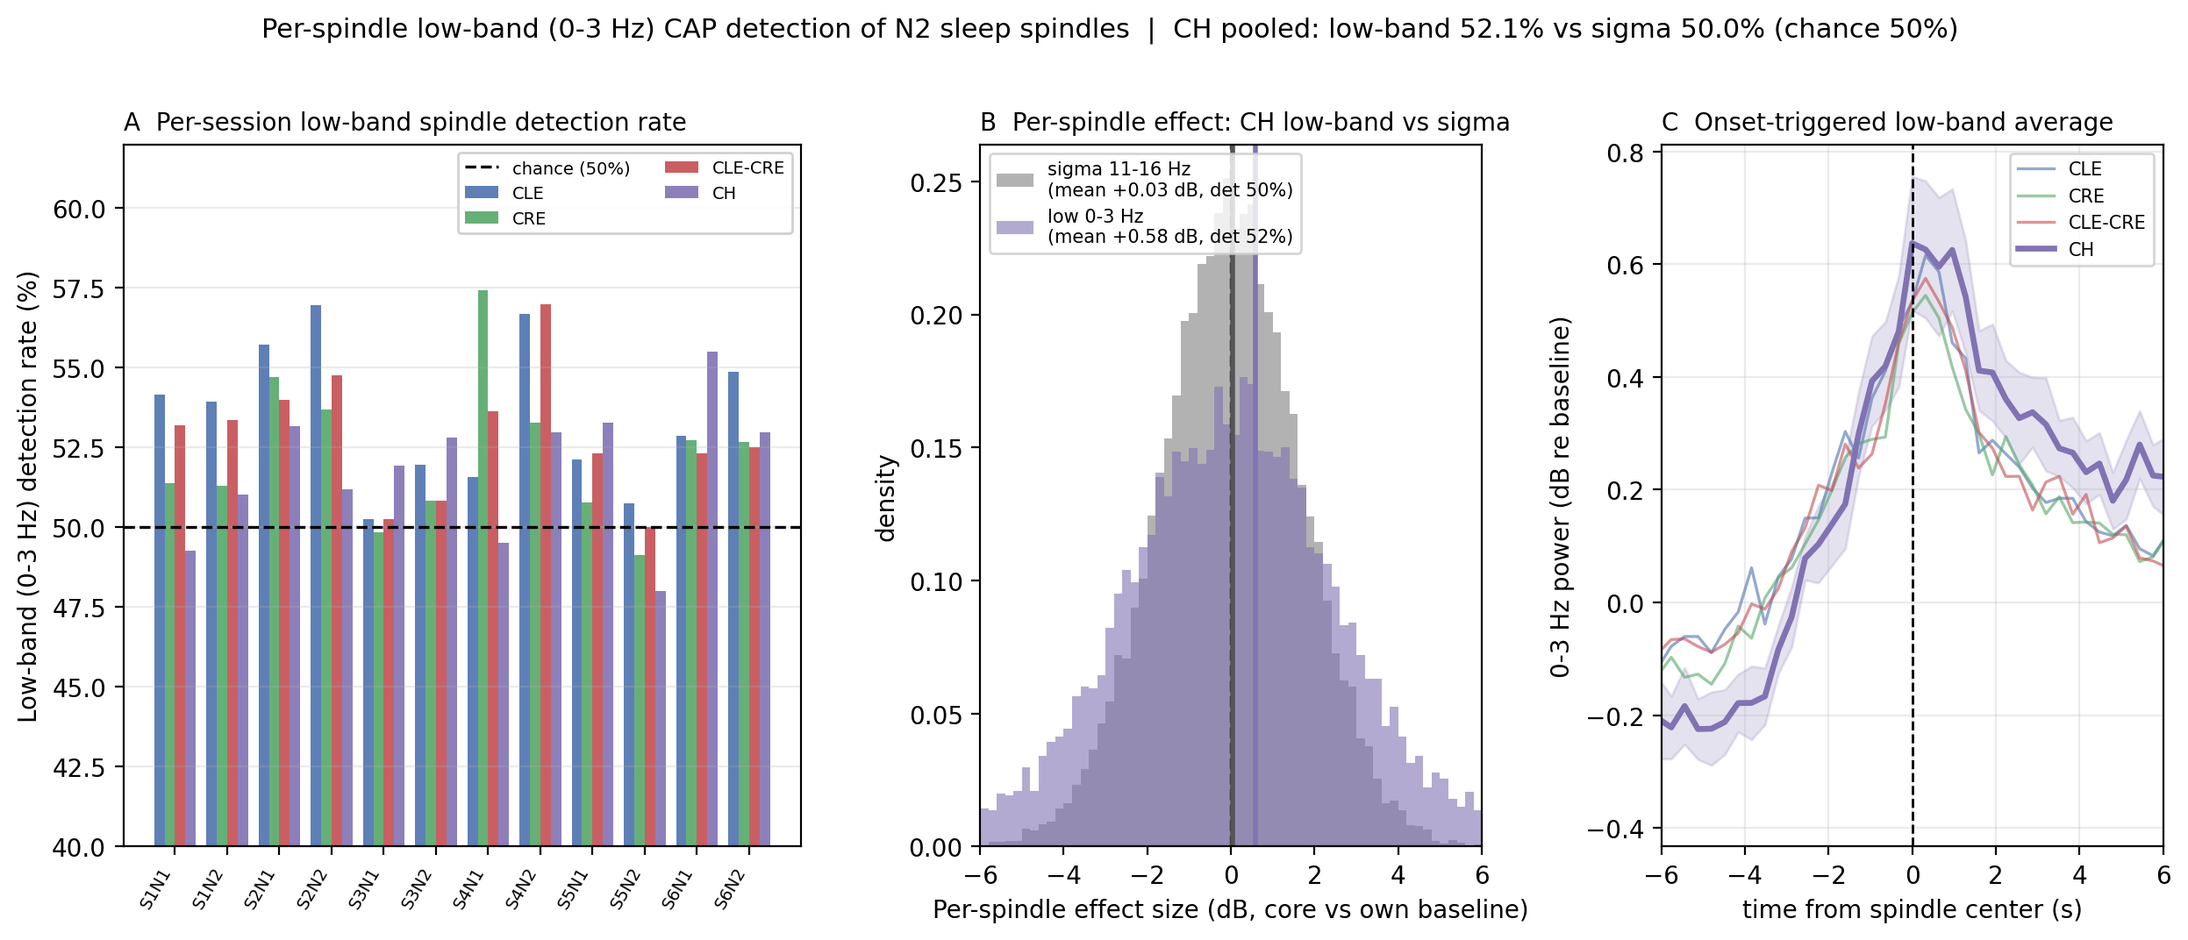
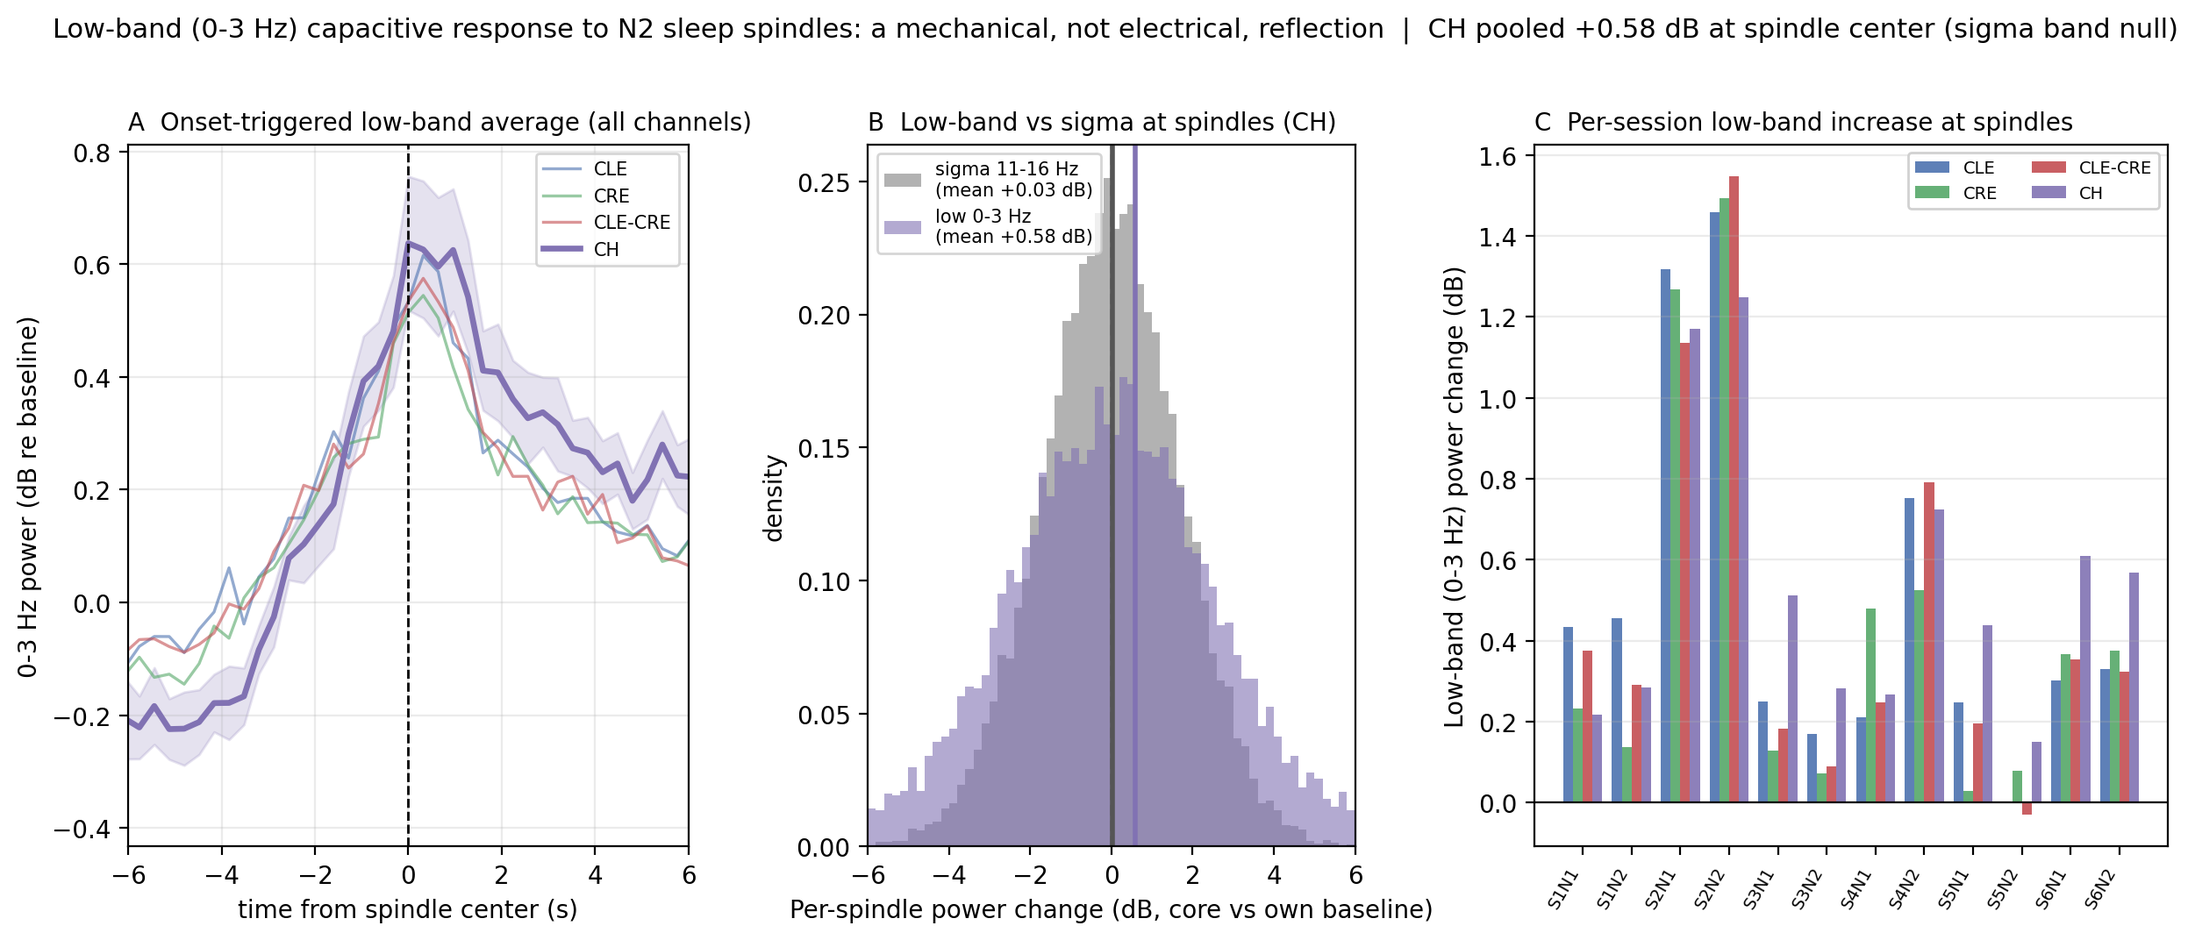
Log channel-evolution figure iteration (super-slow drift + CSF-flow channel)

diff --git a/analysis/spindles/spindle_lowband_detection.py b/analysis/spindles/spindle_lowband_detection.py
@@ -293,46 +293,10 @@ def make_figure(df, sessions, save):
     colors = {'CLE': '#4C72B0', 'CRE': '#55A868', 'CLE-CRE': '#C44E52', 'CH': '#8172B3'}
 
     fig = plt.figure(figsize=(15, 5.2), dpi=200)
-    gs = fig.add_gridspec(1, 3, width_ratios=[1.35, 1.0, 1.0], wspace=0.32)
+    gs = fig.add_gridspec(1, 3, width_ratios=[1.15, 1.0, 1.3], wspace=0.32)
 
-    # --- Panel A: per-session low-band detection rate bars, per channel ---
+    # --- Panel A: onset-triggered low-band average, all CAP channels (CH bold) ---
     axA = fig.add_subplot(gs[0, 0])
-    labels = sess_df['session'].tolist()
-    x = np.arange(len(labels))
-    w = 0.2
-    for i, ch in enumerate(CAP_CHANNELS):
-        vals = sess_df[f'{ch}_low_detrate'].values * 100
-        axA.bar(x + (i - 1.5) * w, vals, w, label=ch, color=colors[ch],
-                edgecolor='none', alpha=0.9)
-    axA.axhline(50, color='k', ls='--', lw=1.2, label='chance (50%)')
-    axA.set_xticks(x)
-    axA.set_xticklabels(labels, rotation=60, ha='right', fontsize=7)
-    axA.set_ylabel('Low-band (0-3 Hz) detection rate (%)')
-    axA.set_title('A  Per-session low-band spindle detection rate', fontsize=10, loc='left')
-    axA.set_ylim(40, max(62, sess_df[[f'{c}_low_detrate' for c in CAP_CHANNELS]].max().max() * 100 + 3))
-    axA.legend(fontsize=7, ncol=2, loc='upper right', framealpha=0.9)
-    axA.grid(axis='y', alpha=0.25)
-
-    # --- Panel B: per-spindle effect-size distributions, sigma vs low-band (CH) ---
-    axB = fig.add_subplot(gs[0, 1])
-    db_low = save['db_CH_low_03']
-    db_sig = save['db_CH_sigma']
-    bins = np.linspace(-6, 6, 61)
-    axB.hist(db_sig, bins=bins, density=True, color='#999999', alpha=0.75,
-             label=f'sigma 11-16 Hz\n(mean {np.mean(db_sig):+.2f} dB, det {np.mean(db_sig>0)*100:.0f}%)')
-    axB.hist(db_low, bins=bins, density=True, color=colors['CH'], alpha=0.6,
-             label=f'low 0-3 Hz\n(mean {np.mean(db_low):+.2f} dB, det {np.mean(db_low>0)*100:.0f}%)')
-    axB.axvline(0, color='k', ls='--', lw=1.2)
-    axB.axvline(np.mean(db_low), color=colors['CH'], lw=2)
-    axB.axvline(np.mean(db_sig), color='#555555', lw=2)
-    axB.set_xlabel('Per-spindle effect size (dB, core vs own baseline)')
-    axB.set_ylabel('density')
-    axB.set_title('B  Per-spindle effect: CH low-band vs sigma', fontsize=10, loc='left')
-    axB.legend(fontsize=7.5, loc='upper left')
-    axB.set_xlim(-6, 6)
-
-    # --- Panel C: onset-triggered low-band average, all CAP channels (CH bold) ---
-    axC = fig.add_subplot(gs[0, 2])
     t = save['t_axis']
     for ch in CAP_CHANNELS:
         curves = save[f'trig_low_{ch}']              # (sessions, T)
@@ -340,22 +304,56 @@ def make_figure(df, sessions, save):
         se = curves.std(axis=0) / np.sqrt(curves.shape[0])
         lw = 2.4 if ch == 'CH' else 1.2
         alpha = 1.0 if ch == 'CH' else 0.6
-        axC.plot(t, m, color=colors[ch], lw=lw, alpha=alpha, label=ch)
+        axA.plot(t, m, color=colors[ch], lw=lw, alpha=alpha, label=ch)
         if ch == 'CH':
-            axC.fill_between(t, m - se, m + se, color=colors[ch], alpha=0.2)
-    axC.axvline(0, color='k', ls='--', lw=1.0)
-    axC.set_xlim(-6, 6)
-    axC.set_xlabel('time from spindle center (s)')
-    axC.set_ylabel('0-3 Hz power (dB re baseline)')
-    axC.set_title('C  Onset-triggered low-band average', fontsize=10, loc='left')
-    axC.legend(fontsize=7.5, loc='upper right')
-    axC.grid(alpha=0.25)
+            axA.fill_between(t, m - se, m + se, color=colors[ch], alpha=0.2)
+    axA.axvline(0, color='k', ls='--', lw=1.0)
+    axA.set_xlim(-6, 6)
+    axA.set_xlabel('time from spindle center (s)')
+    axA.set_ylabel('0-3 Hz power (dB re baseline)')
+    axA.set_title('A  Onset-triggered low-band average (all channels)', fontsize=10, loc='left')
+    axA.legend(fontsize=7.5, loc='upper right')
+    axA.grid(alpha=0.25)
 
-    ch_low = pooled['CH_low_detrate'] * 100
-    ch_sig = pooled['CH_sigma_detrate'] * 100
+    # --- Panel B: per-spindle effect-size distributions, low-band vs sigma (CH) ---
+    axB = fig.add_subplot(gs[0, 1])
+    db_low = save['db_CH_low_03']
+    db_sig = save['db_CH_sigma']
+    bins = np.linspace(-6, 6, 61)
+    axB.hist(db_sig, bins=bins, density=True, color='#999999', alpha=0.75,
+             label=f'sigma 11-16 Hz\n(mean {np.mean(db_sig):+.2f} dB)')
+    axB.hist(db_low, bins=bins, density=True, color=colors['CH'], alpha=0.6,
+             label=f'low 0-3 Hz\n(mean {np.mean(db_low):+.2f} dB)')
+    axB.axvline(0, color='k', ls='--', lw=1.2)
+    axB.axvline(np.mean(db_low), color=colors['CH'], lw=2)
+    axB.axvline(np.mean(db_sig), color='#555555', lw=2)
+    axB.set_xlabel('Per-spindle power change (dB, core vs own baseline)')
+    axB.set_ylabel('density')
+    axB.set_title('B  Low-band vs sigma at spindles (CH)', fontsize=10, loc='left')
+    axB.legend(fontsize=7.5, loc='upper left')
+    axB.set_xlim(-6, 6)
+
+    # --- Panel C: per-session low-band power change per channel ---
+    axC = fig.add_subplot(gs[0, 2])
+    labels = sess_df['session'].tolist()
+    x = np.arange(len(labels))
+    w = 0.2
+    for i, ch in enumerate(CAP_CHANNELS):
+        vals = sess_df[f'{ch}_low_meandB'].values
+        axC.bar(x + (i - 1.5) * w, vals, w, label=ch, color=colors[ch],
+                edgecolor='none', alpha=0.9)
+    axC.axhline(0, color='k', ls='-', lw=0.8)
+    axC.set_xticks(x)
+    axC.set_xticklabels(labels, rotation=60, ha='right', fontsize=7)
+    axC.set_ylabel('Low-band (0-3 Hz) power change (dB)')
+    axC.set_title('C  Per-session low-band increase at spindles', fontsize=10, loc='left')
+    axC.legend(fontsize=7, ncol=2, loc='upper right', framealpha=0.9)
+    axC.grid(axis='y', alpha=0.25)
+
+    ch_low = pooled['CH_low_meandB']
     fig.suptitle(
-        f'Per-spindle low-band (0-3 Hz) CAP detection of N2 sleep spindles  |  '
-        f'CH pooled: low-band {ch_low:.1f}% vs sigma {ch_sig:.1f}% (chance 50%)',
+        f'Low-band (0-3 Hz) capacitive response to N2 sleep spindles: a mechanical, not electrical, reflection  |  '
+        f'CH pooled +{ch_low:.2f} dB at spindle center (sigma band null)',
         fontsize=11, y=1.02)
     fig_path = os.path.join(FIGDIR, 'fig_spindle_lowband_detection.png')
     fig.savefig(fig_path, bbox_inches='tight', dpi=200)
@@ -363,4 +361,13 @@ def make_figure(df, sessions, save):
 
 
 if __name__ == '__main__':
-    main()
+    import sys
+    if '--figure-only' in sys.argv:
+        # Rebuild the figure from saved CSV + NPZ without re-running the
+        # per-session analysis (used to re-render after a figure reframe).
+        import pandas as pd
+        df = pd.read_csv(os.path.join(OUT, 'spindle_lowband_detection.csv'))
+        save = np.load(os.path.join(OUT, 'spindle_lowband_detection.npz'))
+        make_figure(df, None, save)
+    else:
+        main()

diff --git a/notebooks/ANALYSIS_LOG.md b/notebooks/ANALYSIS_LOG.md
@@ -3,6 +3,8 @@
 Each entry records the question asked, code written, parameters used, plots generated, and key findings.
 
 ## Recent (last 3 — scroll down for full history)
+- **2026-07-23** — **Per-session, per-channel overnight-evolution reporting figures** iterated to final form (`analysis/mean_value/channel_evolution.py`; 48 figs `writeup/figures/channel_evolution/<SESSION>_<CLE|CRE|CH|CLE-CRE>.png`). **Request (user, multi-turn):** journal-style per-channel panels of mean/variance/velocity/motion + spectrogram; channels CLE, CRE, CH; spectrogram 0–5 Hz; 10 Hz-capped mean/variance; then "regress motion out, keep velocity continuous (don't cut)"; then "capture the SUPER-slow rate of change of the mean, velocity is dominated by oscillations"; then "add CLE−CRE as a flow channel (CSF flow across brain; balanced = good sleep)". **Design (6 rows A–F):** hypnogram / mean (adaptive median±5·MAD y-axis so huge coupling swings clip and the baseline structure stays visible) / variance (10 Hz-capped so it's physiological-band power, not the >10 Hz electronic floor) / **super-slow drift rate** / motion / 0–5 Hz spectrogram with Resp+Cardiac band lines + dB colorbar. **Two methodological findings that mattered:** (1) **Velocity = local linear slope over a 25-min window (Savitzky-Golay 1st-derivative) of the accelerometer-regressed baseline, NOT low-pass-then-differentiate.** Differentiating a low-passed signal always re-injects oscillation (derivative amplifies ∝ frequency), so 0.15/0.05/0.01 Hz caps all stayed oscillation-dominated; the windowed slope averages out anything faster than the window and yields the true drift trend — near-zero over flat-baseline stretches, sustained signed value where the mean ramps (verified against row B on S1N1 clean + S6 poor-contact). (2) **Motion is regressed out (OLS on per-axis accel MEAN = gravity/head-orientation + movement magnitude), not blanked** — continuous velocity, and electrode coupling-loss STEPS (poor-contact S6) correctly remain since they aren't accelerometer motion. **CSF-flow channel (CLE−CRE):** row B rendered as directional flow L−R with two-colour fill about the neutral (session median — offset-invariant, because the absolute L−R level is dominated by a static mount offset per [[project_flow_imbalance]]); balance readout = # side-to-side reversals + longest one-sided run (min). Balanced flow = frequent reversals/short runs (hypothesised good sleep). **Observation:** flow drifts side-to-side across the night (S1N1: 117 reversals, longest run 66 min, shifts R-dominant→L-dominant); the balance metric is descriptive-only for now — the offset-invariant balance-vs-sleep-quality correlation across 12 sessions is the pending statistical test (groundwork in `flow_imbalance_vs_quality.py`). **Status:** reporting figures for the paper; representative-session main figure (3–4 channel, vector PDF, shared dB scale) + supplement set still pending user's paper-level packaging decision.
+- **2026-07-23** — **Ridge + harmonic analysis, revamped** (`analysis/slow_wave/ridge_harmonic_revamp.py`; module upgrades in `sleep_monitor/harmonics.py`; outputs `reports/slow_wave/revamp/*`; figs `writeup/figures/harmonics/revamp_{overlay_S1N1,by_stage,continuity,harmonics}.png`). **Request (user):** "the ridge and harmonic analysis in paper is stale, revamp it" → redo the analysis, make long-lasting ridges flat (merge the bits-and-pieces), make harmonic detection strong, and add a slow band (~0.1 Hz). **Method / three upgrades:** (1) **Flat long ridges** — added `fill_gaps` (linear-interp each ridge's freq/amp over internal holes) + iterative-to-convergence fragment merging on boundary-median frequency to `detect_persistent_ridges` (backward-compatible; jitter/flatness still measured on the untouched raw trace, `coverage` still reports true pre-fill detection density). (2) **Slow band 0.02–0.15 Hz** detected with long 240 s windows / 120 s Welch segments (df≈0.008 Hz) — the infra-slow/vasomotor band that the CAP-SWA slow-DC-drift marker lives in. (3) **Strong harmonics** — integer-ratio ladders validated against a per-k surrogate null (random ridge freqs over the observed band), keep only ≥3-member ladders beating the null 95th pct, with a calibrated confidence (CH channel). Ran 3 bands × 3 channels × 12 sessions, stage stats pooled on CRE. **KEY FINDINGS:** (a) **Continuity fixed:** pooled CRE, mean trace coverage 0.88–0.94 → **1.00** (internal holes ~3000 → **0**), fragments merged (resp 35→22, slow 21→15 ridges/session); longest continuous flat ridge now **150 min (resp), 124 min (slow)** — the "bits and pieces" are gone. (b) **NEW slow-band result:** a persistent slow ridge is present in **88–92%** of clean epochs on all three channels, median lowest freq **~0.07 Hz (≈14 s period)** — a near-ubiquitous infra-slow oscillation the mask carries. Its **total ridge power drops sharply in N3 in all 6 subjects** (N3 median 0.083 vs 0.369 elsewhere; KW p=9×10⁻⁵³; N3-vs-rest MWU p=6×10⁻⁵²; pooled N3 AUC≈**0.68** in the low-power direction) — a **new cross-subject-consistent N3 marker in the mechanical SWA band**, matching the CAP-SWA score (0.68) and the slow-DC-drift story [[project_slow_wave_analysis]]; slow-band lowest freq is slightly *higher* in N3 (weak, 4/6). (c) **Resp band** reproduces the prior story on the flat ridges: fewer active respiratory ridges in N3 (6/6), lower total power (5/6), lowest freq ≈0.23 Hz (=resp rate). (d) **Cardiac band:** lowest ridge freq lower in N3 (median 1.0 vs 1.125 Hz, 5/6) — the deep-NREM bradycardia. (e) **Harmonics now rigorous:** 6,812 strong (≥3-member) ladders on CH, **6,783 survive the surrogate null = 99.6% real** (per-session 98.9–100%), median confidence **0.75**, median fundamental **0.25 Hz** (respiratory), median **4 members** — the ladders are integer harmonics of the respiratory fundamental extending into the cardiac band, essentially never coincidental. **Takeaway:** the revamp turns the fragmented ridge picture into continuous flat multi-hour ridges, adds a genuinely new and 6/6-consistent slow-band N3 marker (AUC≈0.68) that ties the spectral ridge story to the mechanical CAP-SWA story, and puts the harmonic-ladder claim on a firm near-zero-false-positive footing. Supersedes the 2026-07-16 band-restricted analysis for the manuscript §3.6/§4.3. Draft replacement text pending (docx locked open in Word at write time).
 - **2026-07-23** — Delta-onset CAP-precursor test (`analysis/delta_onset/delta_cap_precursor.py`) — the actual test of the professor's hypothesis that a CAP band event (0–0.5 / 0.5–1 / 1–3 Hz; CLE/CRE/CH) *precedes* EEG delta-burst onset. **Method:** consumes the q15/q30 delta-onset triggers; per band×channel runs three tests each with a null — (1) peri-onset average of z-scored CAP band power locked to onset vs a random-NREM null (aggregated per-subject, n=6), (2) CAP→EEG-delta cross-correlation over contiguous NREM (+lag = CAP leads; phase-ramp circular-shift null), (3) forecasting AUC of pre-onset CAP power ([−12,−2] s) vs random NREM. 0–0.5 band high-passed 0.03 Hz to kill DC/coupling drift; features decimated to 20 Hz + cached; xcorr computed once/session. **Result — professor's hypothesis NOT supported; direction is REVERSED:** no CAP precursor before onset (lead-window amplitude −0.02→−0.11 z, at/below baseline; forecasting AUC 0.42–0.56 ≈ chance, per-subject dots straddle 0.5). **Instead a strong CAP band-power RESPONSE after onset** — all 3 bands × 3 channels rise sharply at t=0, peak +2→+5 s, far above the flat random-NREM null (CH>CRE>CLE). Cross-correlation peaks at lag ≈0 with the shoulder on the EEG-leads (negative-lag) side → CAP *follows* delta, doesn't lead. Robust to window (q15≡q30), consistent across subjects. Minor nuance: the slow 0–0.5 band starts creeping up a few s before the higher bands (CRE/CH) but stays within the null in the lead window — likely onset-timing jitter of the broad slow envelope, not a real precursor. **Interpretation:** the mask carries a genuine slow-wave/K-complex-locked mechanical–hemodynamic co-activation (consistent with the spindle-ERSP 0–3 Hz bump [[project_spindle_validation]] and CAP-SWA [[project_slow_wave_analysis]]) but it is a *following/concurrent* event, not a preceding one. Figures `analysis/delta_onset/outputs/fig_precursor_{grid,xcorr,auc}_{q15,q30}.png`; tables `precursor_summary_{q15,q30}.csv`. For the professor: the preceding-event hypothesis is negative, but there is a robust *post*-onset CAP correlate worth framing.
 - **2026-07-23** — Corrected the manuscript in-band SNR (Figure 2) from band-integrated to **per-Hz spectral density**, after the baseline-noise recording + a raw-waveform sanity check exposed the old metric as mislabeling good channels as failed (`writeup/figures/signal_validation/inband_snr.py`; `fig2_inband_snr.png`; `inband_snr_summary.csv`). **Request (user):** a no-subject baseline noise recording was added (`baseline noise/SM2_33.txt`, ~16 min, CH/CLE/CRE @ 111 Hz) — use measured noise for the SNR instead of the frequency-based floor; then, on inspecting per-session PSDs, "why do we have bad data in some session, increase signal band to 30 Hz?"; then, from raw data, "it doesn't look failed in any session." **Investigation:** (1) Baseline PSD is spectrally **white 0.1–50 Hz** (HF/in-band density ratio ≈1.0–1.06, no 1/f rise) — this *validates* using the ≥10 Hz floor as the in-band noise estimate, but the baseline is on a different unit scale than the overnight recordings (raw ~1× vs ~1000×; power floors differ ~10¹²), so it can NOT be plugged into the SNR denominator directly — its role is validation, not substitution. (2) The old metric integrated signal over 2.9 Hz (0.1–3) vs noise over 40 Hz (10–50) — a fixed ~11 dB bandwidth penalty. Decomposition showed "bad" sessions were **low signal, not high noise** (floor near-constant 0.016–0.033 across all 12); I initially over-called these "failed/dead electrodes." (3) **User was right:** loading the raw 0.1–3 Hz bandpassed waveforms, S5N1 CRE (the −5.1 dB "worst") has std 0.27 a.u. vs 0.34 for a good night, and S1N2 CRE std 0.62 — clear rhythmic resp/cardiac in every "bad" case. Re-scored as per-Hz **density**, the worst is S5N1 CRE at +6.4 dB (4.4× floor); the rest 12–13 dB. No failures. (4) Extending signal band to 30 Hz REJECTED: baseline proves 3–30 Hz is pure white noise, so widening the band raises the weakest bars the most (S5N1 CRE −5.1→+7.3) — it would fold noise into "signal" and disguise the low end. **Fix applied:** `snr_db` now uses `band_density` (mean PSD/Hz) for both bands; equal-bandwidth + gain-invariant (S4N1 gain anomaly cancels in the ratio). **Result:** channel means CH 18.2→30.0, CLE 7.1→18.7, CRE 9.0→20.7 dB; nothing below +6 dB; ranking preserved (CH strongest every night, temple electrodes modest but usable). No "bad-data session" — the earlier framing was a metric artifact. **Takeaway:** the numbers now track the visible raw waveforms; caption cites the white baseline floor as justification. Baseline diagnostic figures (raw traces, per-channel spectrum, log-log PSD, good-vs-bad grid) live in scratchpad — not yet saved to repo pending user decision.
 - **2026-07-23** — Delta-onset event detection — building the "trial split" for the professor's hypothesis that at EEG delta-burst onset a *preceding* event appears in CAP bands 0–0.5 / 0.5–1 / 1–3 Hz of CLE/CRE/CH (new workspace `analysis/delta_onset/`, `delta_onset_detection.py`). **Request (user):** build the onset detector first so we can eyeball events before committing to the peri-event/lead-lag analysis. **Method:** Schmitt-trigger burst detector on the EEG delta (0.5–4 Hz) Hilbert envelope; per-session robust baseline over NREM (median + MAD), high=med+2·MAD, low=med+0.5·MAD; burst must stay above `high` ≥4 s; **onset = walk back to the rising edge (last low-crossing)** so t=0 is the burst rise, not its peak; refractory ≥25 s; kept only if onset in NREM (N2/N3) and the −30→0 s pre-window is inside the recording with motion fraction <0.10 (motion = rolling-std of accel > 90th pct). Outputs per-session onset npz + `delta_onsets_summary.csv` + overview (hypnogram/envelope/motion) and single-event gallery figs. **Findings:** 11–197 onsets/session (S5N1 low at 11 — short 2.5 h NREM night; S2N1 197), 100% in NREM by construction, **N2-dominant** (K-complexes/isolated slow waves outnumber N3 SWA), median IEI 55–290 s. Galleries confirm clean quiet→burst transitions with clear slow-wave/K-complex morphology in the raw EEG for the majority of events. **Open issue surfaced by eyeballing:** low-SWA sessions (S5N1) and a subset of panels show pre-window delta already elevated (z-env wanders ±2 before t=0) → a CAP "precursor" there could just track pre-existing EEG delta. Decision pending before the precursor step: add a pre-window EEG-quiescence gate (cleaner trials, fewer n) vs. keep permissive and regress out pre-window delta downstream. Next: `delta_cap_precursor.py` (3×3 peri-onset band-power grid, CAP→EEG xcorr testing negative lag, forecasting AUC, with random-NREM + shuffle nulls). **Update (same day):** per user decision, added `REQUIRE_QUIET_PRE` EEG-quiescence gate (mean pre-window delta env < `low`). Galleries now show uniformly flat pre-windows → clean quiet→delta transitions. **New finding / tradeoff:** the strict full-30 s gate drops counts sharply (S2N1 197→99, S2N2 181→80) and **removes N3 almost entirely (0–1/session)** — principled, since N3's sustained delta has no quiet baseline for an "onset" to rise from, so the gate selects isolated N2 slow-wave/K-complex onsets. Downside: S5N1=1, S4N2=4, S5N2=6, S1N2=9 are now too thin for per-subject event-triggered stats. Open decision: shorten the quiescence window to the immediate pre-onset (~10–15 s) to recover n while keeping the transition clean, vs. keep strict and report only the ~6–8 well-populated (S1N1, S2N1/2, S3N1/2, S6N1/2) sessions. **Resolved (user):** keep BOTH 15 s and 30 s as parameters and report both — detector now sweeps `--quiet-pre` windows, tags outputs `q15`/`q30`, and writes a side-by-side count pivot. **Result:** 15 s recovers only modest n over 30 s (S2N1 99→108, S6N2 17→28, S4N2 4→9) and does NOT rescue the genuinely thin nights (S5N1=2, S5N2=7) — subject 5's shortfall is a real low-SWA/noisy-EEG data property, so S5 likely drops from per-subject (n=6→~5) stats regardless of window. Galleries at both windows show clean flat pre-windows. Proceeding to `delta_cap_precursor.py` will run on both onset sets (q15/q30) as a robustness check.
